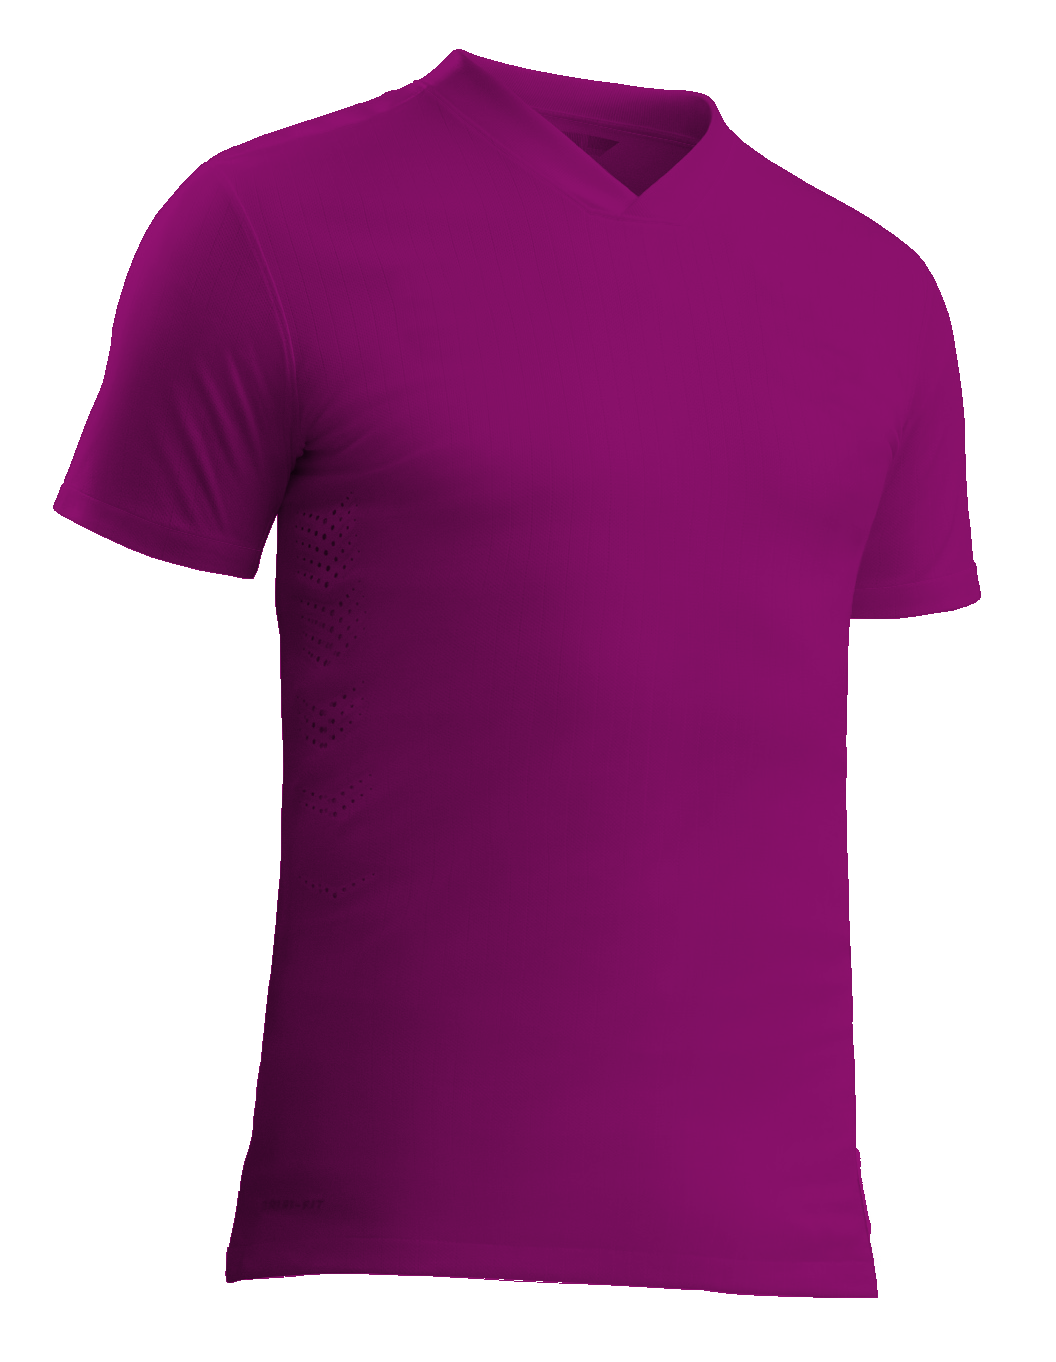
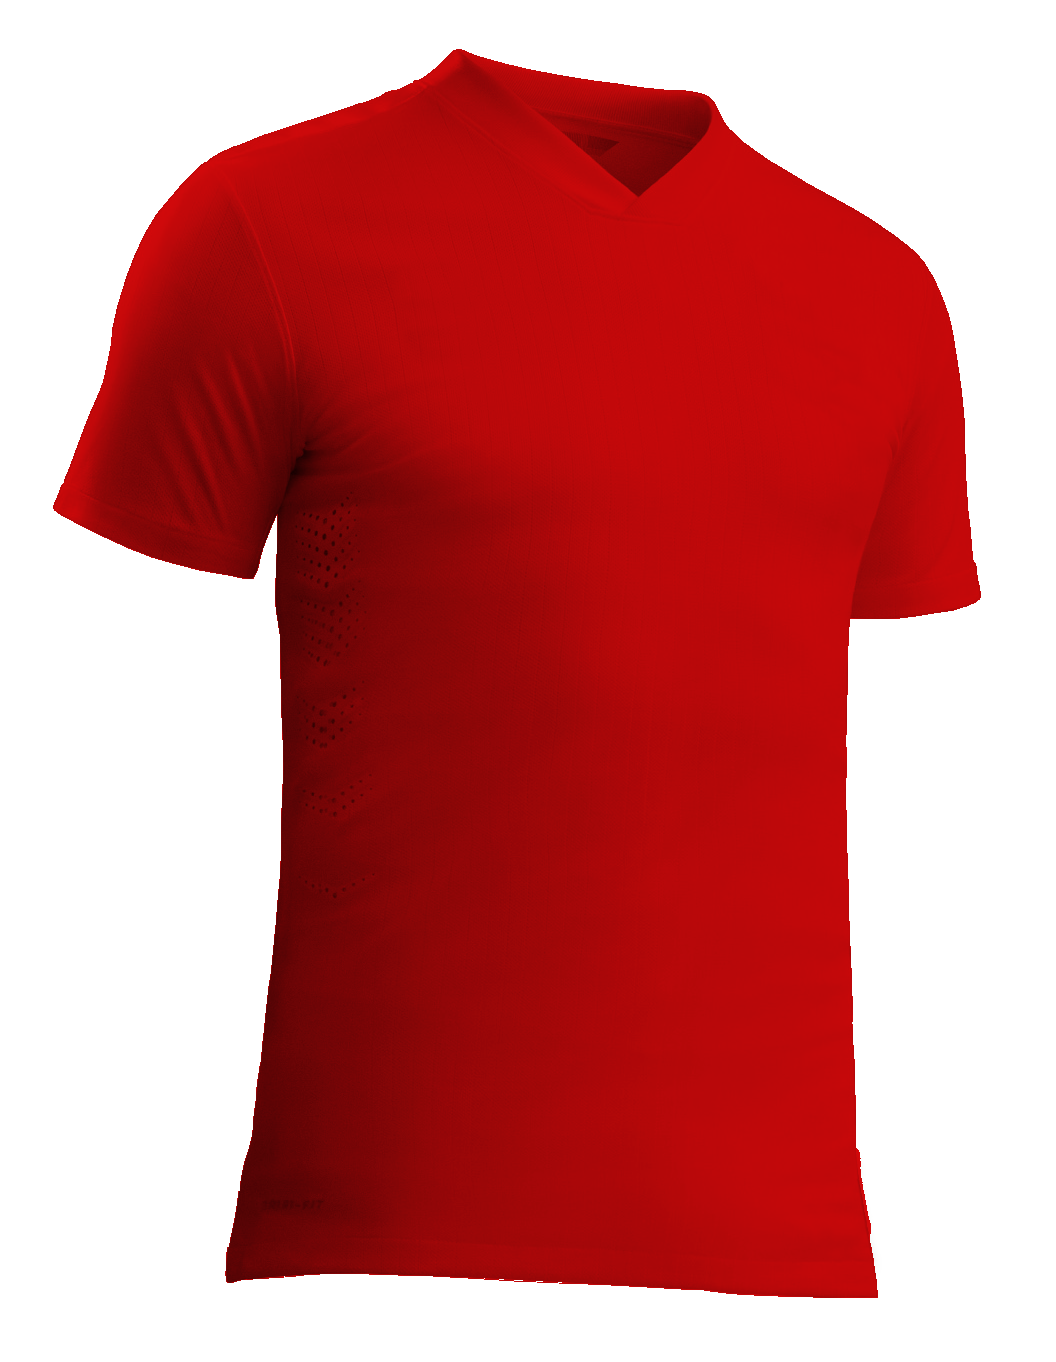
Add length validation to various user inputted strings. Add reduced size fantasy kits. Fix issue with match editor.

diff --git a/CoachBot.UI/src/app/pages/hub/tournaments/fantasy/fantasy-team-manager/fantasy-team-manager.component.html b/CoachBot.UI/src/app/pages/hub/tournaments/fantasy/fantasy-team-manager/fantasy-team-manager.component.html
@@ -42,19 +42,18 @@
                                 </td>
                                 <td class="text-center">{{fantasyTeam.fantasyTeamStatus | fantasyTeamStatus }}</td>
                                 <td class="text-center">
+                                    <button *ngIf="fantasyTeam.fantasyTeamStatus !== fantasyTeamStatuses.Open"
+                                        type="button" class="btn btn-primary btn-xs">
+                                        View Team
+                                    </button>
                                     <button *ngIf="fantasyTeam.fantasyTeamStatus === fantasyTeamStatuses.Open"
                                         type="button" class="btn btn-primary btn-xs">
-                                        Edit
+                                        Edit Team
                                     </button>
-                                    <ng-container *ngIf="fantasyTeam.fantasyTeamStatus !== fantasyTeamStatuses.Open">
-                                        <button type="button" class="btn btn-primary btn-xs">
-                                            View Team
-                                        </button>
-                                        <a [routerLink]="['/fantasy/', fantasyTeam.tournamentId]"
-                                            class="ml-2 btn btn-primary btn-xs">
-                                            Leaderboard
-                                        </a>
-                                    </ng-container>
+                                    <a [routerLink]="['/fantasy/', fantasyTeam.tournamentId]"
+                                        class="ml-2 btn btn-primary btn-xs">
+                                        Leaderboard
+                                    </a>
                                 </td>
                             </tr>
                         </tbody>
@@ -71,7 +70,7 @@
                             <div class="form-group">
                                 <label>Name</label>
                                 <input [(ngModel)]="fantasyTeam.name" name="fantasyTeamName" type="text" required
-                                    class="form-control">
+                                    maxlength="50" class="form-control">
                             </div>
                             <div class="form-group">
                                 <label>Tournament</label>

diff --git a/CoachBot.UI/src/app/pages/hub/team-editor/shared/team-info-editor/team-info-editor.component.html b/CoachBot.UI/src/app/pages/hub/team-editor/shared/team-info-editor/team-info-editor.component.html
@@ -10,14 +10,14 @@
                 <div class="form-group">
                     <label class="control-label required" for="teamName">Team Name</label>
                     <input type="text" class="form-control" id="teamName" required [(ngModel)]="team.name"
-                        placeholder="Full team name, e.g. Ball Breakers" name="teamName">
+                        maxlength="40" placeholder="Full team name, e.g. Ball Breakers" name="teamName">
                 </div>
                 <div class="form-group">
                     <label class="control-label required" for="teamCode">Team Code</label>
                     <small class="label-subtitle mb-2">This must be unique in the region your team plays in. It will be
                         used ingame, and also for matchmaking searches.</small>
                     <input type="text" class="form-control" id="teamCode" required [(ngModel)]="team.teamCode"
-                        name="teamCode" placeholder="Short team code, e.g. BB">
+                        name="teamCode" placeholder="Short team code, e.g. BB" maxlength="6">
                 </div>
                 <div *ngIf="!team.id" class="form-group">
                     <label class="control-label required" for="teamType">Team Type</label>

diff --git a/CoachBot.UI/src/app/pages/hub/match-editor/match-editor.component.html b/CoachBot.UI/src/app/pages/hub/match-editor/match-editor.component.html
@@ -64,13 +64,11 @@
                 </p>
                 <div class="form-group">
                     <label>Home Goals</label>
-                    <input class="form-control" type="number" name="homeGoalsOverride"
-                        [(ngModel)]="match.matchStatistics.homeGoals">
+                    <input class="form-control" type="number" name="homeGoalsOverride" [(ngModel)]="homeGoalsOverride">
                 </div>
                 <div class="form-group">
                     <label>Away Goals</label>
-                    <input class="form-control" type="number" name="homeGoalsOverride"
-                        [(ngModel)]="match.matchStatistics.awayGoals">
+                    <input class="form-control" type="number" name="homeGoalsOverride" [(ngModel)]="awayGoalsOverride">
                 </div>
                 <button class="btn btn-primary" (click)="submitMatchResultOverride()" type="button">Save</button>
             </ng-container>

diff --git a/CoachBot.UI/src/app/pages/hub/match-editor/match-editor.component.ts b/CoachBot.UI/src/app/pages/hub/match-editor/match-editor.component.ts
@@ -20,6 +20,8 @@ export class MatchEditorComponent implements OnInit {
     matchId: number;
     servers: Server[];
     teams: Team[];
+    homeGoalsOverride: number;
+    awayGoalsOverride: number;
     showDatepicker = false;
     isLoading = true;
 
@@ -50,7 +52,10 @@ export class MatchEditorComponent implements OnInit {
         this.matchService.getMatch(this.matchId).subscribe(match => {
             this.match = match;
             this.match.kickOff = new Date(this.match.kickOff);
-            this.match.matchStatistics = this.match.matchStatistics || {} as any;
+            if (this.match.matchStatistics) {
+                this.homeGoalsOverride = this.match.matchStatistics.homeGoals;
+                this.awayGoalsOverride = this.match.matchStatistics.awayGoals;
+            }
             this.isLoading = false;
         });
     }

diff --git a/CoachBot.UI/src/app/pages/hub/tournaments/fantasy/fantasy-team-editor/fantasy-player/fantasy-player.component.ts b/CoachBot.UI/src/app/pages/hub/tournaments/fantasy/fantasy-team-editor/fantasy-player/fantasy-player.component.ts
@@ -26,7 +26,7 @@ export class FantasyPlayerComponent implements OnInit {
         this.rating = this.fantasyPlayer.rating;
         this.positionGroup = this.fantasyPlayer.positionGroup;
         this.playerName = this.fantasyPlayer.player.name;
-        this.kitImageUrl = 'assets/images/iosoccer/fantasy/kits/' + this.fantasyPlayer.team.teamCode.toLowerCase() + '_orig.png';
+        this.kitImageUrl = 'assets/images/iosoccer/fantasy/kits/' + this.fantasyPlayer.team.teamCode.toLowerCase() + '.png';
         if (this.fantasyPlayer.team.badgeImage) {
             this.badge = this.fantasyPlayer.team.badgeImage.extraSmallUrl;
         }

diff --git a/CoachBot.UI/src/app/pages/hub/profile-editor/profile-editor.component.html b/CoachBot.UI/src/app/pages/hub/profile-editor/profile-editor.component.html
@@ -11,7 +11,7 @@
                         <div class="form-group">
                             <label class="control-label" for="input-default">Nickname</label>
                             <input type="text" class="form-control" id="input-default" [(ngModel)]="player.name"
-                                placeholder="Your most well-known alias">
+                                maxlength="50" placeholder="Your most well-known alias">
                         </div>
                         <div class="form-group">
                             <label class="control-label" for="input-default">Discord Account</label>

diff --git a/CoachBot.UI/src/app/pages/hub/tournaments/fantasy/fantasy-team-editor/fantasy-team-editor.component.html b/CoachBot.UI/src/app/pages/hub/tournaments/fantasy/fantasy-team-editor/fantasy-team-editor.component.html
@@ -134,7 +134,7 @@
     <form *swalPortal>
         <div class="form-group">
             <label>Team Name</label>
-            <input type="text" class="form-control" name="teamName" [(ngModel)]="teamName">
+            <input type="text" class="form-control" name="teamName" maxlength="50" [(ngModel)]="teamName">
         </div>
     </form>
     <ng-container *swalPortal="swalTargets.cancelButton">

diff --git a/CoachBot.Domain/Services/FantasyService.cs b/CoachBot.Domain/Services/FantasyService.cs
@@ -259,7 +259,7 @@ namespace CoachBot.Domain.Services
             return _coachBotContext.Tournaments
                 .Include(t => t.TournamentSeries)
                 .Where(t => !_coachBotContext.Matches.Any(m => m.TournamentId == t.Id && m.KickOff < DateTime.UtcNow))
-                .Where(t => !_coachBotContext.FantasyTeams.Any(ft => ft.Player.SteamID == steamUserId))
+                .Where(t => !_coachBotContext.FantasyTeams.Any(ft => ft.TournamentId == t.Id && ft.Player.SteamID == steamUserId))
                 .Where(t => _coachBotContext.FantasyPlayers.Any(f => f.TournamentId == t.Id))
                 .Where(t => t.IsPublic)
                 .ToList();

diff --git a/CoachBot.Domain/Model/Team.cs b/CoachBot.Domain/Model/Team.cs
@@ -15,8 +15,10 @@ namespace CoachBot.Domain.Model
         [Key]
         public int Id { get; set; }
 
+        [MaxLength(40)]
         public string Name { get; set; }
 
+        [MaxLength(6)]
         public string TeamCode { get; set; }
 
         public string KitEmote { get; set; }

diff --git a/CoachBot.Domain/Model/Player.cs b/CoachBot.Domain/Model/Player.cs
@@ -14,6 +14,7 @@ namespace CoachBot.Model
         [DatabaseGenerated(DatabaseGeneratedOption.Identity)]
         public int Id { get; set; }
 
+        [MaxLength(50)]
         public string Name { get; set; }
 
         public ulong? DiscordUserId { get; set; }

diff --git a/CoachBot.Domain/Model/FantasyTeam.cs b/CoachBot.Domain/Model/FantasyTeam.cs
@@ -12,6 +12,7 @@ namespace CoachBot.Domain.Model
         [Key]
         public int Id { get; set; }
 
+        [MaxLength(50)]
         public string Name { get; set; }
 
         public bool IsComplete { get; set; } = false;
